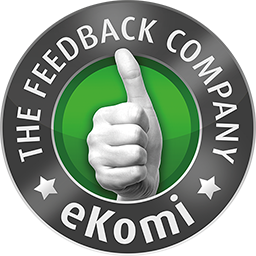
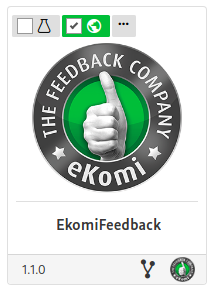
Plugin preview images added.

diff --git a/src/Repositories/ReviewsRepository.php b/src/Repositories/ReviewsRepository.php
@@ -152,7 +152,7 @@ class ReviewsRepository {
 
         $itemID = $this->getItemIDs($item);
         if (!$itemID) {
-            $this->getLogger(__FUNCTION__)->error('Null Item ID', 'ItemId is Null:' . $itemID);
+            $this->getLogger(__FUNCTION__)->error('Null Item ID', 'ItemId is Null:' . $item);
             return NULL;
         }
 
